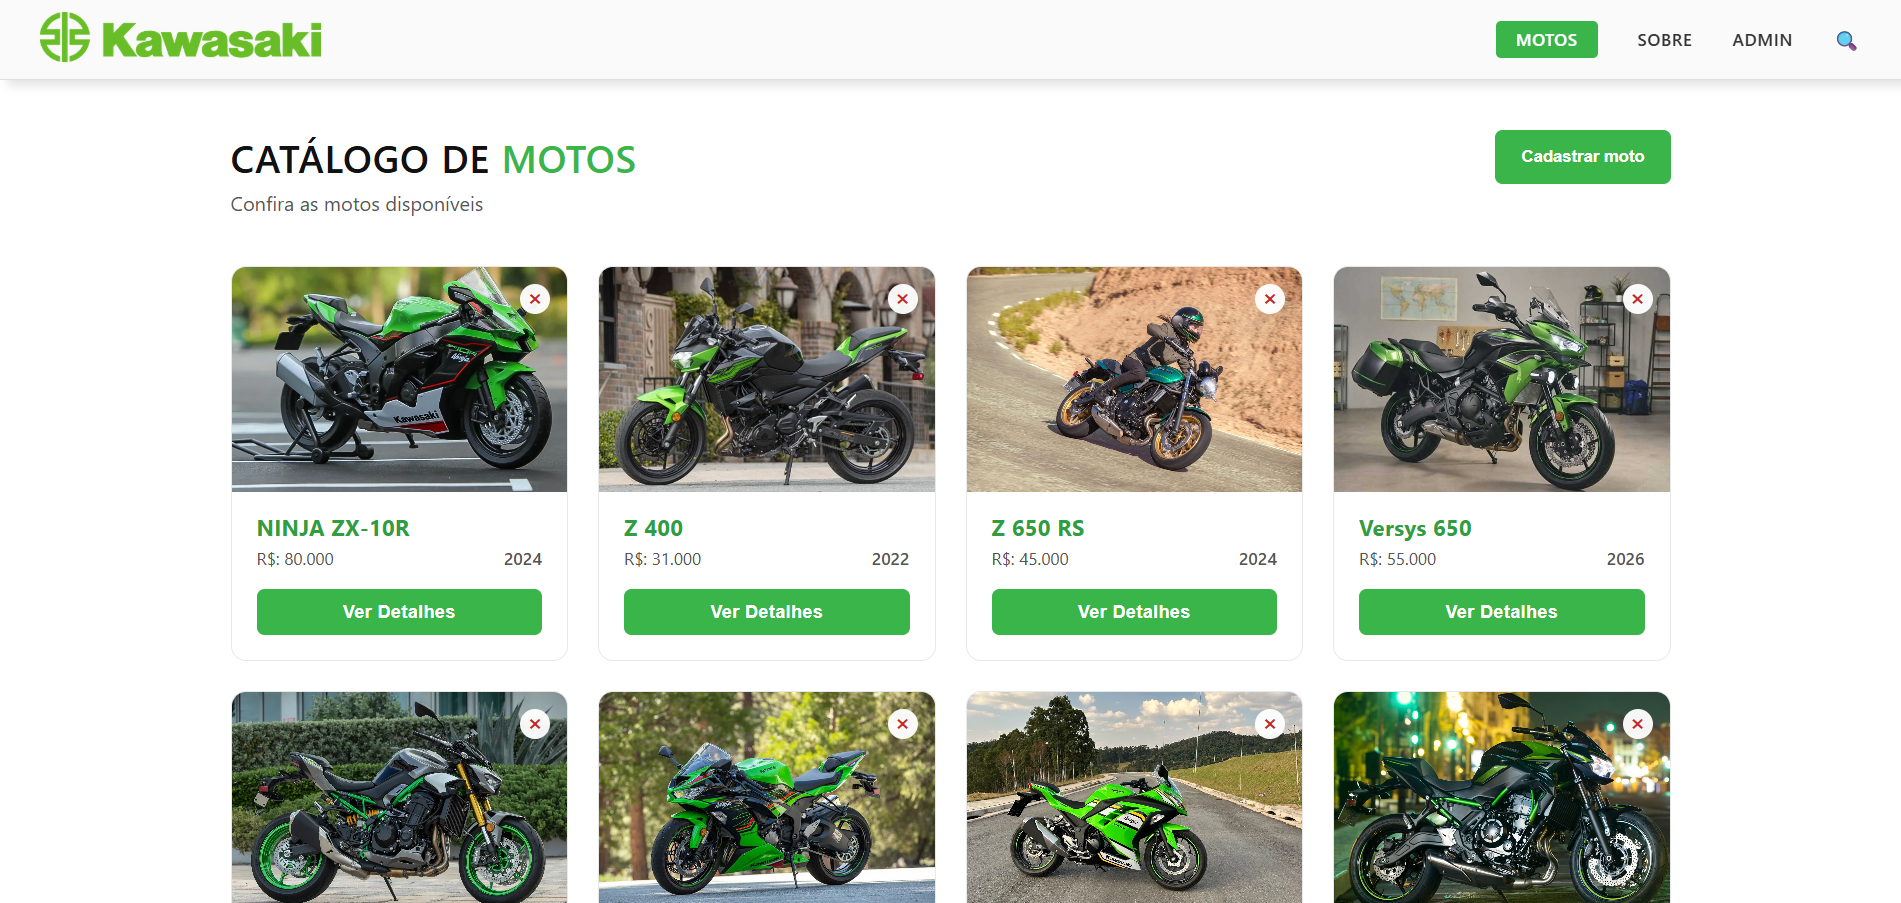
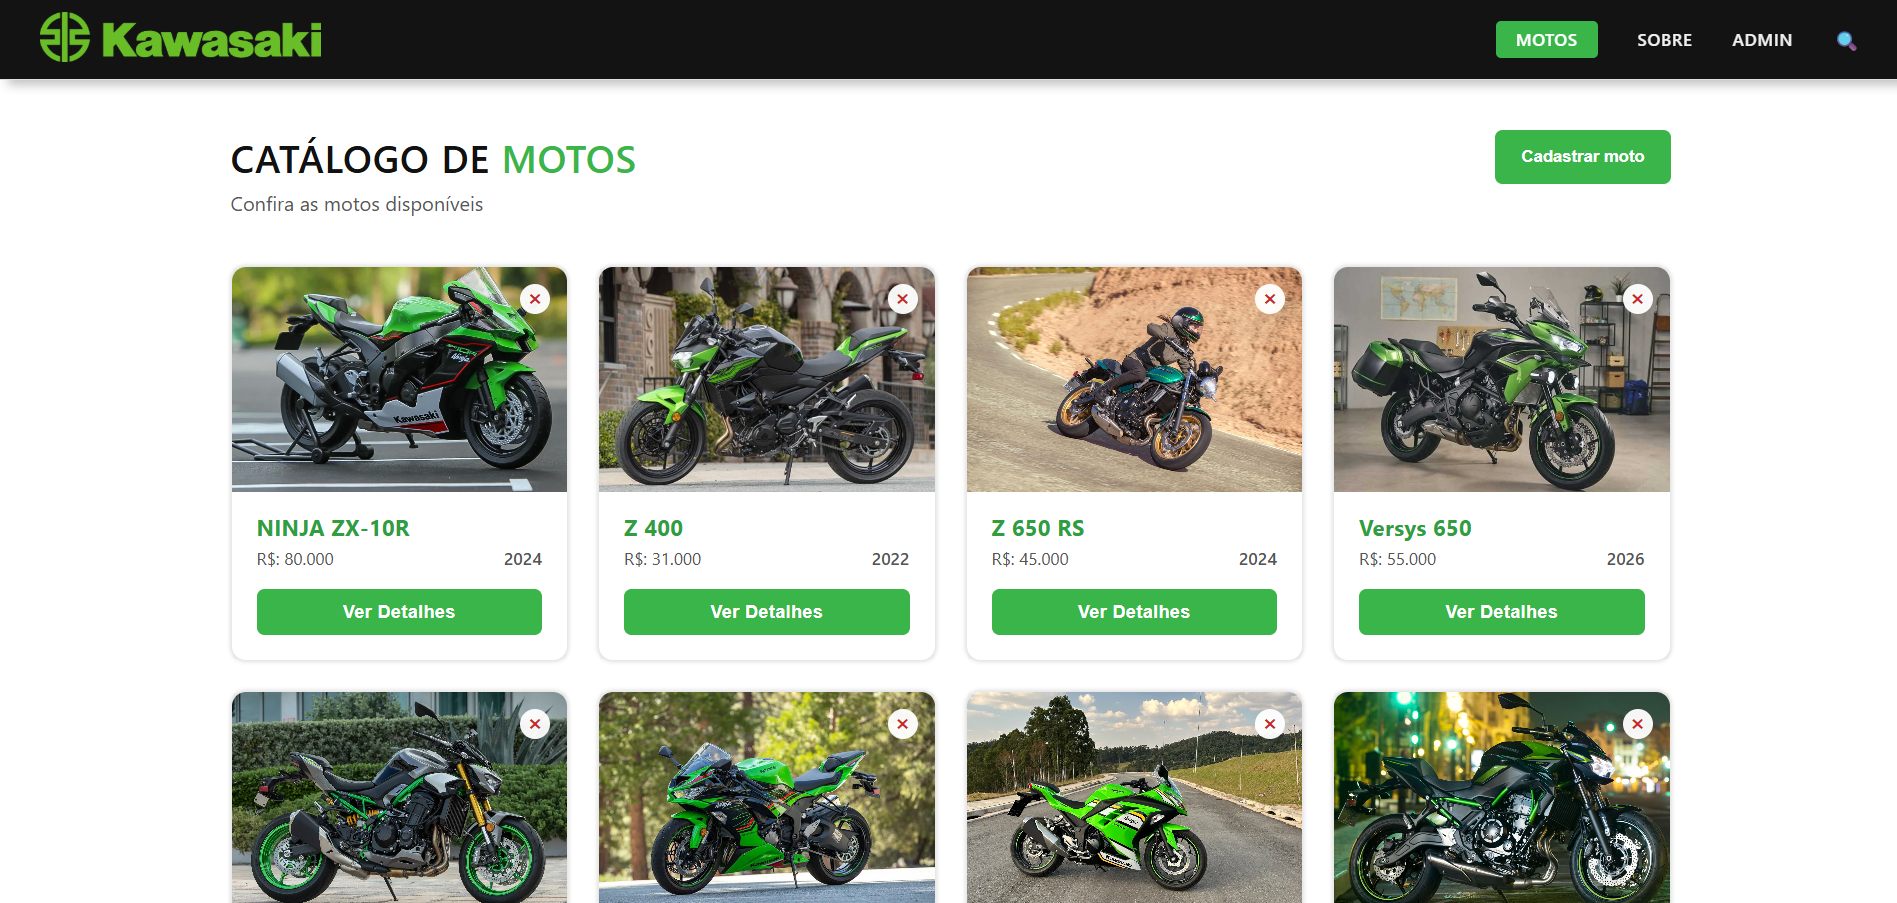
feat: automation Pull Request and adjusts in About and home page

diff --git a/src/app/pages/about/about.html b/src/app/pages/about/about.html
@@ -10,7 +10,7 @@
 
   <section class="catalog-grid">
 
-    <img class="profile-image" loading="lazy" src="https://media.licdn.com/dms/image/v2/C5603AQExIocIwVAVWA/profile-displayphoto-shrink_400_400/profile-displayphoto-shrink_400_400/0/1612471160799?e=1779926400&v=beta&t=ibXa6eTJoBnJQWqB1Nehf7iBk5wQKX_aIEIs1q04wcI">
+    <img class="profile-image" loading="lazy" src="https://media.licdn.com/dms/image/v2/D4E03AQH4bLtx8WSxuw/profile-displayphoto-scale_400_400/B4EZ4JwgxMHcAg-/0/1778280179433?e=1779926400&v=beta&t=_IXFSq23Vr4oXIAel48HXdy1wP3bLsIstMph_mzNRro">
 
     <p>Desenvolvedor Front-End Sênior com + de 8 anos de experiência na criação de Softwares altamente escaláveis.
         Especializado em Angular - Typescript, criando sistemas utilizando boas práticas de Solid, Clean Code, escalabilidade e responsividade.

diff --git a/src/app/shared/components/header/header.scss b/src/app/shared/components/header/header.scss
@@ -3,14 +3,14 @@
   display: flex;
   align-items: center;
   justify-content: space-between;
-  background: #fafafa;
+  background: #131313;
   padding: 0 2rem;
   height: 64px;
   border-bottom: 1px solid #e0e0e0;
   position: sticky;
   top: 0;
   z-index: 100;
-  box-shadow: 10px 0px 8px 4px #0a0a0a20;
+  box-shadow: 10px 0px 8px 4px #0a0a0a40;
 }
 
 .navbar-brand {
@@ -27,7 +27,7 @@
 
 .navbar-links a {
   text-decoration: none;
-  color: #333;
+  color: #f0f0f0;
   font-weight: 600;
   font-size: 0.85rem;
   letter-spacing: 0.5px;

diff --git a/src/app/pages/home/home.scss b/src/app/pages/home/home.scss
@@ -84,6 +84,7 @@ body {
   overflow: hidden;
   border: 1px solid #e8e8e8;
   transition: transform 0.2s, box-shadow 0.2s;
+  box-shadow: 0px 0px 3px 1px #0a0a0a20;
 }
 
 .moto-card:hover {
